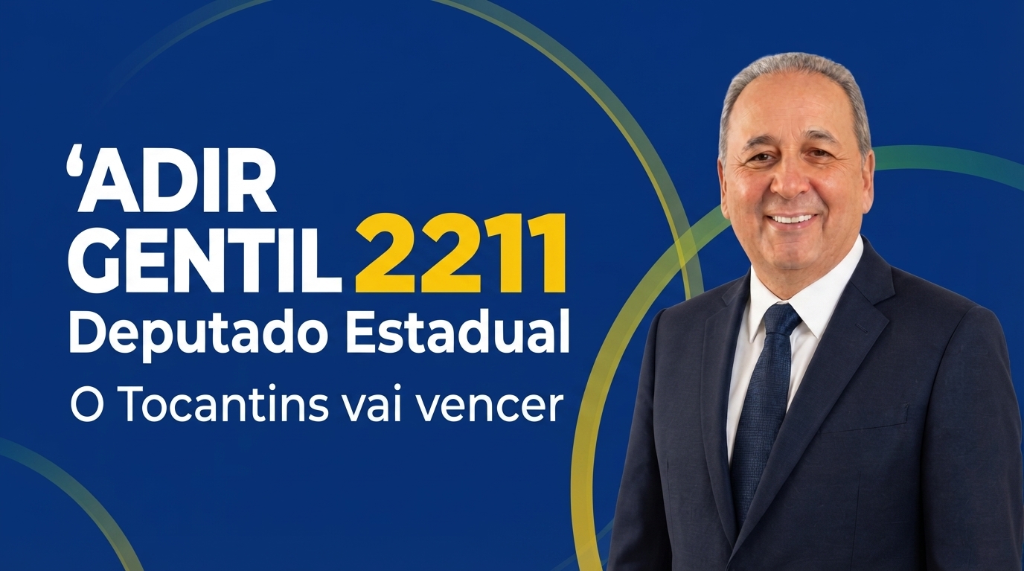
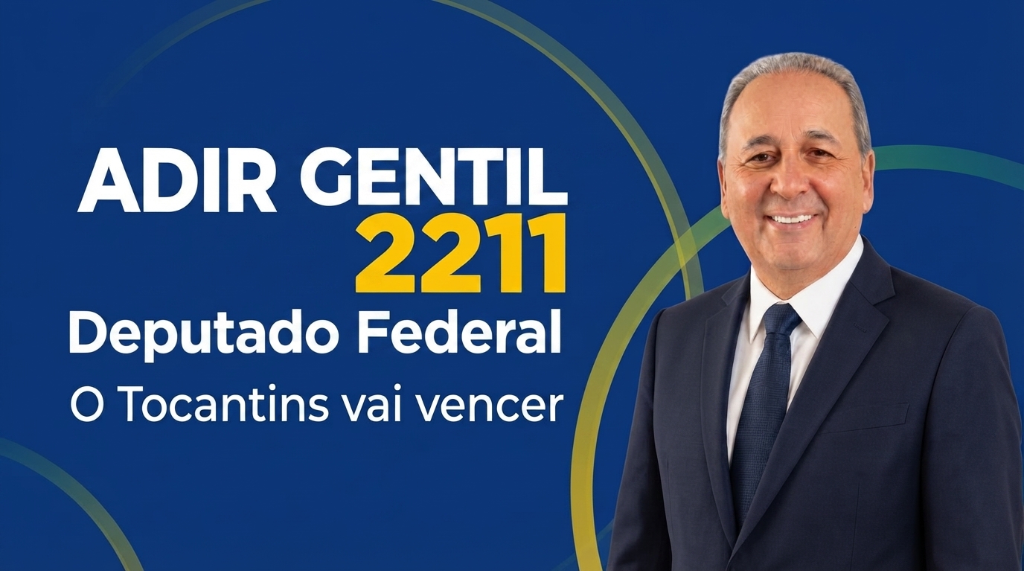
feat: adicionar CTA oficial de compartilhamento abaixo da urna, limpar newsletter e atualizar og-image com Deputado Federal

Changed region(s): [[0.0625, 0.387, 0.5625, 0.6252], [0.2812, 0.2382, 0.5625, 0.387], [0.0625, 0.2382, 0.0938, 0.3275]]

diff --git a/index.html b/index.html
@@ -1376,6 +1376,56 @@
 
           </div>
 
+          <!-- CTA OFICIAL DE COMPARTILHAMENTO DA URNA ELETRÔNICA (LOGO ABAIXO DA URNA) -->
+          <div class="urna-share-cta reveal" id="urnaShareCta">
+            <div class="urna-share-cta__content">
+              <div class="urna-share-cta__badge">
+                <span class="urna-share-cta__pulse"></span>
+                <span>Engajamento Cívico Oficial • 2211</span>
+              </div>
+              <h3 class="urna-share-cta__title">
+                Gostou da experiência? Compartilhe a Urna Oficial 2211!
+              </h3>
+              <p class="urna-share-cta__desc">
+                Ajude os eleitores de Palmas e de todos os 139 municípios do Tocantins a treinarem o voto no <strong>Deputado Federal Adir Gentil 2211</strong>. Envie direto nos seus grupos de família e amigos!
+              </p>
+              <div class="urna-share-cta__legal">
+                <svg width="14" height="14" viewBox="0 0 24 24" fill="none" stroke="currentColor" stroke-width="2"><path d="M12 22s8-4 8-10V5l-8-3-8 3v7c0 6 8 10 8 10z"/></svg>
+                <span>Compartilhamento voluntário e orgânico em estrita conformidade com a <strong>Resolução TSE nº 23.610/2019</strong>.</span>
+              </div>
+            </div>
+
+            <div class="urna-share-cta__actions">
+              <a
+                href="https://api.whatsapp.com/send?text=Treine%20o%20seu%20voto%20na%20urna%20eletr%C3%B4nica%20oficial%20de%20Adir%20Gentil%202211%20pelo%20Tocantins%3A%20https%3A%2F%2Fadirgentil2211.vercel.app%2F%23urna-simulador"
+                target="_blank"
+                rel="noopener noreferrer"
+                class="urna-share-btn-whatsapp"
+                id="urnaBtnShareWhatsappCta"
+                data-track="urna-cta-share-whatsapp"
+              >
+                <svg width="22" height="22" viewBox="0 0 24 24" fill="currentColor">
+                  <path d="M.057 24l1.687-6.163c-1.041-1.804-1.588-3.849-1.587-5.946.003-6.556 5.338-11.891 11.893-11.891 3.181.001 6.167 1.24 8.413 3.488 2.245 2.248 3.481 5.236 3.48 8.414-.003 6.557-5.338 11.892-11.893 11.892-1.99-.001-3.951-.5-5.688-1.448l-6.305 1.654zm6.597-3.807c1.676.995 3.276 1.591 5.392 1.592 5.448 0 9.886-4.434 9.889-9.885.002-5.462-4.415-9.89-9.881-9.892-5.452 0-9.887 4.434-9.889 9.884-.001 2.225.651 3.891 1.746 5.634l-.999 3.648 3.742-.981z"/>
+                </svg>
+                <span>Compartilhar no WhatsApp</span>
+              </a>
+
+              <button
+                type="button"
+                class="urna-share-btn-copy"
+                id="urnaBtnCopyLinkCta"
+                data-track="urna-cta-copy-link"
+                onclick="navigator.clipboard.writeText('https://adirgentil2211.vercel.app/#urna-simulador').then(()=>{ var s=this.querySelector('span'); var old=s.innerText; s.innerText='Link Copiado!'; setTimeout(()=>{ s.innerText=old; }, 2500); })"
+              >
+                <svg width="18" height="18" viewBox="0 0 24 24" fill="none" stroke="currentColor" stroke-width="2">
+                  <rect x="9" y="9" width="13" height="13" rx="2" ry="2"></rect>
+                  <path d="M5 15H4a2 2 0 0 1-2-2V4a2 2 0 0 1 2-2h9a2 2 0 0 1 2 2v1"></path>
+                </svg>
+                <span>Copiar Link</span>
+              </button>
+            </div>
+          </div>
+
         </div>
       </section>
 
@@ -3097,55 +3147,7 @@
               </form>
             </div>
 
-          <!-- CTA DE COMPARTILHAMENTO DA URNA ELETRÔNICA (SEMPRE VISÍVEL) -->
-          <div class="urna-share-cta reveal" id="urnaShareCta">
-            <div class="urna-share-cta__content">
-              <div class="urna-share-cta__badge">
-                <span class="urna-share-cta__pulse"></span>
-                <span>Engajamento Cívico Oficial • 2211</span>
-              </div>
-              <h3 class="urna-share-cta__title">
-                Gostou da experiência? Compartilhe a Urna Oficial 2211!
-              </h3>
-              <p class="urna-share-cta__desc">
-                Ajude os eleitores de Palmas e de todos os 139 municípios do Tocantins a treinarem o voto no <strong>Deputado Federal Adir Gentil 2211</strong>. Envie direto nos seus grupos de família e amigos!
-              </p>
-              <div class="urna-share-cta__legal">
-                <svg width="14" height="14" viewBox="0 0 24 24" fill="none" stroke="currentColor" stroke-width="2"><path d="M12 22s8-4 8-10V5l-8-3-8 3v7c0 6 8 10 8 10z"/></svg>
-                <span>Compartilhamento voluntário e orgânico em estrita conformidade com a <strong>Resolução TSE nº 23.610/2019</strong>.</span>
-              </div>
-            </div>
 
-            <div class="urna-share-cta__actions">
-              <a
-                href="https://api.whatsapp.com/send?text=Treine%20o%20seu%20voto%20na%20urna%20eletr%C3%B4nica%20oficial%20de%20Adir%20Gentil%202211%20pelo%20Tocantins%3A%20https%3A%2F%2Fadirgentil2211.vercel.app%2F%23urna-simulador"
-                target="_blank"
-                rel="noopener noreferrer"
-                class="urna-share-btn-whatsapp"
-                id="urnaBtnShareWhatsappCta"
-                data-track="urna-cta-share-whatsapp"
-              >
-                <svg width="22" height="22" viewBox="0 0 24 24" fill="currentColor">
-                  <path d="M.057 24l1.687-6.163c-1.041-1.804-1.588-3.849-1.587-5.946.003-6.556 5.338-11.891 11.893-11.891 3.181.001 6.167 1.24 8.413 3.488 2.245 2.248 3.481 5.236 3.48 8.414-.003 6.557-5.338 11.892-11.893 11.892-1.99-.001-3.951-.5-5.688-1.448l-6.305 1.654zm6.597-3.807c1.676.995 3.276 1.591 5.392 1.592 5.448 0 9.886-4.434 9.889-9.885.002-5.462-4.415-9.89-9.881-9.892-5.452 0-9.887 4.434-9.889 9.884-.001 2.225.651 3.891 1.746 5.634l-.999 3.648 3.742-.981z"/>
-                </svg>
-                <span>Compartilhar no WhatsApp</span>
-              </a>
-
-              <button
-                type="button"
-                class="urna-share-btn-copy"
-                id="urnaBtnCopyLinkCta"
-                data-track="urna-cta-copy-link"
-                onclick="navigator.clipboard.writeText('https://adirgentil2211.vercel.app/#urna-simulador').then(()=>{ var s=this.querySelector('span'); var old=s.innerText; s.innerText='Link Copiado!'; setTimeout(()=>{ s.innerText=old; }, 2500); })"
-              >
-                <svg width="18" height="18" viewBox="0 0 24 24" fill="none" stroke="currentColor" stroke-width="2">
-                  <rect x="9" y="9" width="13" height="13" rx="2" ry="2"></rect>
-                  <path d="M5 15H4a2 2 0 0 1-2-2V4a2 2 0 0 1 2-2h9a2 2 0 0 1 2 2v1"></path>
-                </svg>
-                <span>Copiar Link</span>
-              </button>
-            </div>
-          </div>
 
           </div>
         </div>

diff --git a/css/urna-simulador.css b/css/urna-simulador.css
@@ -587,16 +587,19 @@
 }
 
 
+
+
 /* ==============================================================================
    CALL TO ACTION (CTA) OFICIAL DE COMPARTILHAMENTO DA URNA ELETRÔNICA
+   Posicionado logo abaixo da Urna
    Compliance: Resolução TSE nº 23.610/2019 (Engajamento e Compartilhamento Orgânico)
 ============================================================================== */
 .urna-share-cta {
-  margin-top: 36px;
+  margin-top: 32px;
   background: linear-gradient(135deg, rgba(0, 43, 127, 0.95) 0%, rgba(10, 25, 47, 0.98) 100%);
   border: 2px solid rgba(255, 203, 5, 0.35);
   border-radius: 20px;
-  padding: 32px 36px;
+  padding: 30px 36px;
   display: flex;
   align-items: center;
   justify-content: space-between;
@@ -654,7 +657,7 @@
 }
 
 .urna-share-cta__title {
-  font-size: 1.65rem;
+  font-size: 1.6rem;
   font-weight: 900;
   color: #ffffff;
   margin-bottom: 10px;
